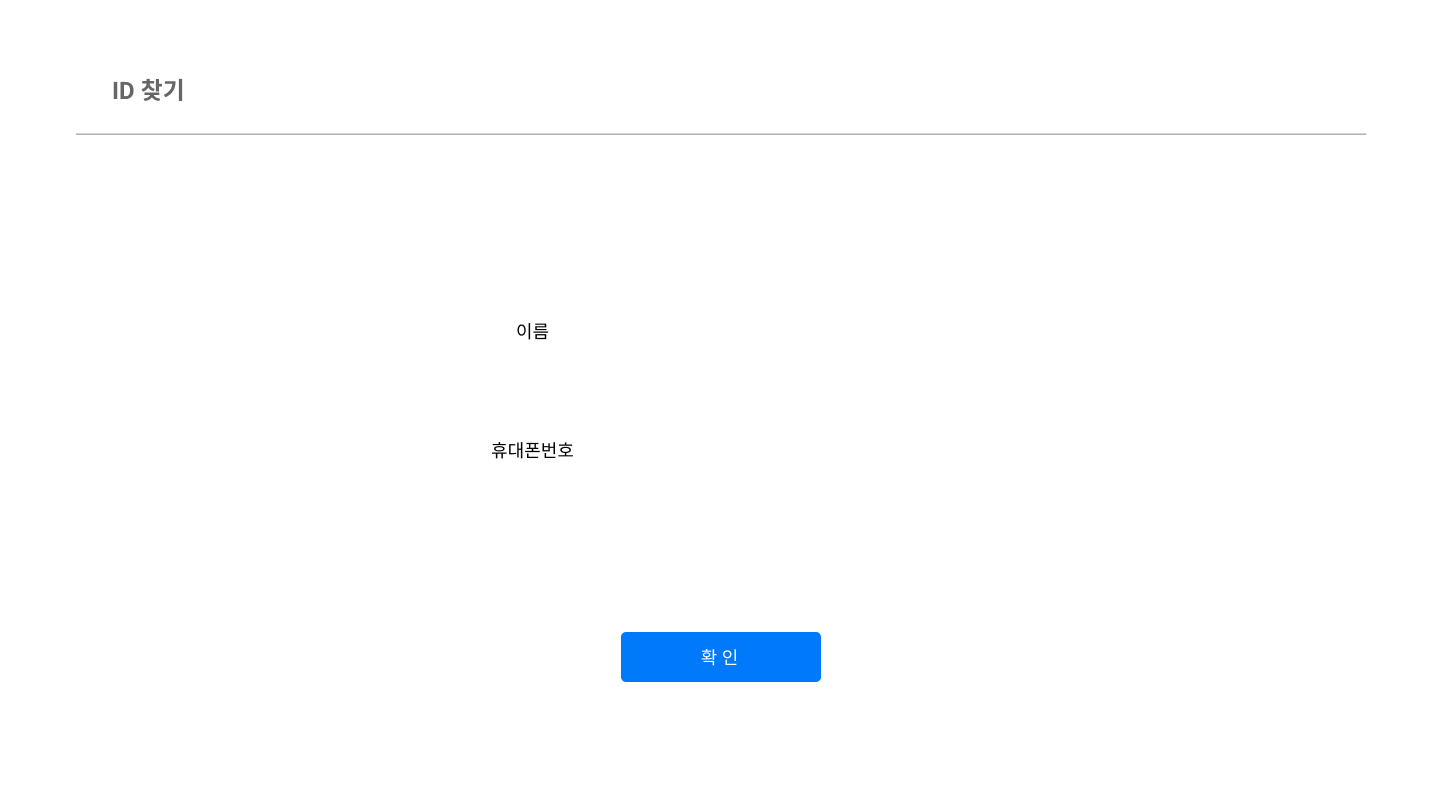
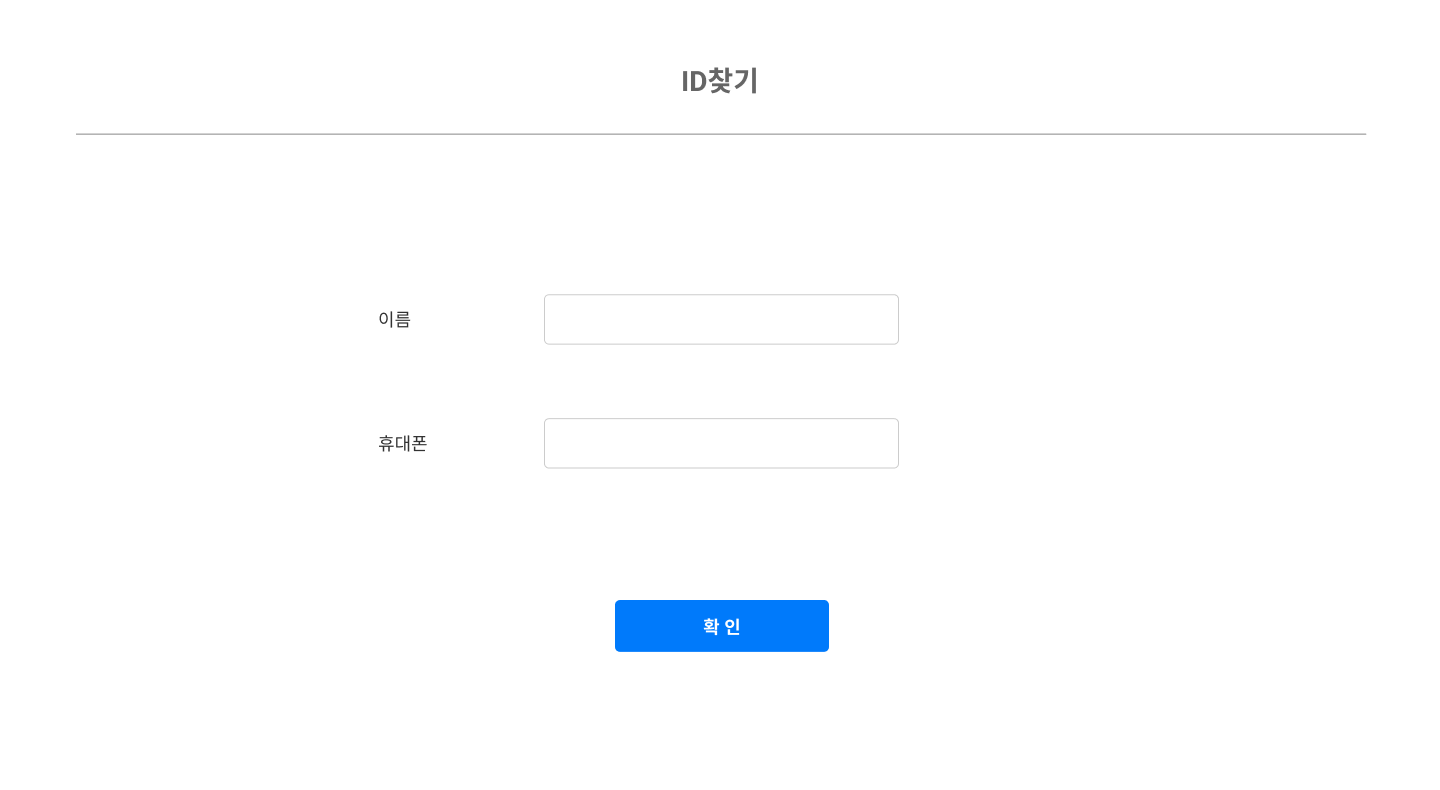
20210203_김태훈
이미지추가, GUI 수정

diff --git a/src/team/tjhis/gui/UpdateProfilePage.java b/src/team/tjhis/gui/UpdateProfilePage.java
@@ -64,42 +64,42 @@ public class UpdateProfilePage extends JPanel {
 		lb.setSize(1440, 790);
 
 		JPasswordField pwdTf = new JPasswordField(20);
-		pwdTf.setSize(250, 30);
-		pwdTf.setLocation(642, 332);
+		pwdTf.setSize(336, 40);
+		pwdTf.setLocation(554, 342);
 		pwdTf.setBorder(null);
 
 		JPasswordField pwdConfirmTf = new JPasswordField(20);
-		pwdConfirmTf.setSize(250, 30);
-		pwdConfirmTf.setLocation(642, 400);
+		pwdConfirmTf.setSize(336, 40);
+		pwdConfirmTf.setLocation(554, 403);
 		pwdConfirmTf.setBorder(null);
 
 		JTextField phoneNumTf = new JTextField(20);
-		phoneNumTf.setSize(250, 30);
-		phoneNumTf.setLocation(640, 470);
+		phoneNumTf.setSize(336, 40);
+		phoneNumTf.setLocation(554, 462);
 		phoneNumTf.setBorder(null);
 
 		JTextField addrTf = new JTextField(20);
-		addrTf.setSize(250, 30);
-		addrTf.setLocation(640, 540);
+		addrTf.setSize(336, 40);
+		addrTf.setLocation(554, 525);
 		addrTf.setBorder(null);
 		
 		JTextArea nameArea = new JTextArea();
-		nameArea.setSize(250,27);
-		nameArea.setLocation(643, 200);
+		nameArea.setSize(336,30);
+		nameArea.setLocation(554, 230);
 		String nameText = "" + md.getName();
 		nameArea.append(nameText);
 		nameArea.setEditable(false);
 		
 		JTextArea IdArea = new JTextArea();
-		IdArea.setSize(250,27);
-		IdArea.setLocation(643, 268);
-		String idText = "" + md.getId();
-		IdArea.append(idText);
+		IdArea.setSize(336,30);
+		IdArea.setLocation(554, 292);
+		String IdText = "" + md.getId();
+		IdArea.append(IdText);
 		IdArea.setEditable(false);
 		
-		JButton btn = new JButton("회원정보 수정");
-		btn.setSize(200, 50);
-		btn.setLocation(620, 631);
+		JButton btn = new JButton();
+		btn.setSize(208, 50);
+		btn.setLocation(619, 645);
 		btn.setOpaque(false);
 
 		this.add(lb);
@@ -125,8 +125,7 @@ public class UpdateProfilePage extends JPanel {
 							md.setPwd(pwdTf.getText());
 							md.setPhoneNum(phoneNumTf.getText());
 							md.setAddr(addrTf.getText());
-							PopUpPage.popUp(mf, "회원정보 수정이 완료되었습니다.");
-
+							PopUpPage.popUp(mf, "images/updateComplete.png");
 							return;
 						}
 					}
@@ -134,7 +133,7 @@ public class UpdateProfilePage extends JPanel {
 				} catch (FileNotFoundException e1) {
 					e1.printStackTrace();
 				} catch (IOException e1) {
-					PopUpPage.popUp(mf, "회원정보를 다시 입력해주세요.");
+					PopUpPage.popUp(mf, "images/updateIncomplete.png");
 				} catch (ClassNotFoundException e1) {
 					e1.printStackTrace();
 				} finally {

diff --git a/src/team/tjhis/gui/FindIdPage.java b/src/team/tjhis/gui/FindIdPage.java
@@ -23,14 +23,16 @@ public class FindIdPage extends JPanel {
 
 	MainFrame mf;
 	JPanel op;
+	JPanel np;
 	
 	public FindIdPage() {}
 
-	public FindIdPage(MainFrame mf) {
+	public FindIdPage(MainFrame mf, LoginPage np) {
 
 		String dbFile = "src/team/tjhis/memberDB.txt";
 		this.mf = mf;
 		this.op = this;
+		this.np = np;
 
 		this.setLayout(null);
 		this.setBounds(0, 120, 1440, 790);
@@ -42,16 +44,18 @@ public class FindIdPage extends JPanel {
 		lb.setSize(1440, 790);
 
 		JTextField nameTf = new JTextField(20);
-		nameTf.setSize(250, 40);
-		nameTf.setLocation(640, 310);
-
+		nameTf.setSize(336,40);
+		nameTf.setLocation(554, 299);
+		nameTf.setBorder(null);
+		
 		JTextField phoneNumTf = new JTextField(20);
-		phoneNumTf.setSize(250, 40);
-		phoneNumTf.setLocation(640, 430);
-
+		phoneNumTf.setSize(336,40);
+		phoneNumTf.setLocation(554, 424);
+		phoneNumTf.setBorder(null);
+		
 		JButton btn = new JButton("확인");
-		btn.setSize(200, 50);
-		btn.setLocation(620, 633);
+		btn.setSize(205, 50);
+		btn.setLocation(620, 602);
 		btn.setOpaque(false);
 
 		this.add(lb);
@@ -71,12 +75,13 @@ public class FindIdPage extends JPanel {
 						MemberDTO dto = (MemberDTO) objIn.readObject();
 						if (nameTf.getText().equals(dto.getName()) && phoneNumTf.getText().equals(dto.getPhoneNum())) {
 							PopUpPage.popUp(mf, nameTf.getText() + "회원님의 ID는 " + dto.getId() + "입니다.");
-							return;
+							ChangePage.changePanel(mf, np, np);
+							break;
 						}
 					}
-
+ 
 				} catch (EOFException e1) {
-					PopUpPage.popUp(mf, "일치하는 회원의 정보가 없습니다. 다시 입력해주세요.");
+					PopUpPage.popUp(mf, "images/updateIncomplete.png");
 				} catch (FileNotFoundException e1) {
 					e1.printStackTrace();
 				} catch (IOException e1) {

diff --git a/src/team/tjhis/gui/JapaneseFoodPage.java b/src/team/tjhis/gui/JapaneseFoodPage.java
@@ -71,7 +71,7 @@ public class JapaneseFoodPage extends JPanel {
 
 			@Override
 			public void actionPerformed(ActionEvent e) {
-				PopUpPage.popUp(mf, "영업이 종료되었습니다.");
+				PopUpPage.popUp(mf, "images/UnableToOrder.png");
 				
 			}
 
@@ -81,7 +81,7 @@ public class JapaneseFoodPage extends JPanel {
 
 			@Override
 			public void actionPerformed(ActionEvent e) {
-				PopUpPage.popUp(mf, "영업이 종료되었습니다.");
+				PopUpPage.popUp(mf, "images/UnableToOrder.png");
 			}
 
 		});
@@ -90,7 +90,7 @@ public class JapaneseFoodPage extends JPanel {
 
 			@Override
 			public void actionPerformed(ActionEvent e) {
-				PopUpPage.popUp(mf, "영업이 종료되었습니다.");
+				PopUpPage.popUp(mf, "images/UnableToOrder.png");
 			}
 
 		});
@@ -99,7 +99,7 @@ public class JapaneseFoodPage extends JPanel {
 
 			@Override
 			public void actionPerformed(ActionEvent e) {
-				PopUpPage.popUp(mf, "영업이 종료되었습니다.");
+				PopUpPage.popUp(mf, "images/UnableToOrder.png");
 			}
 
 		});
